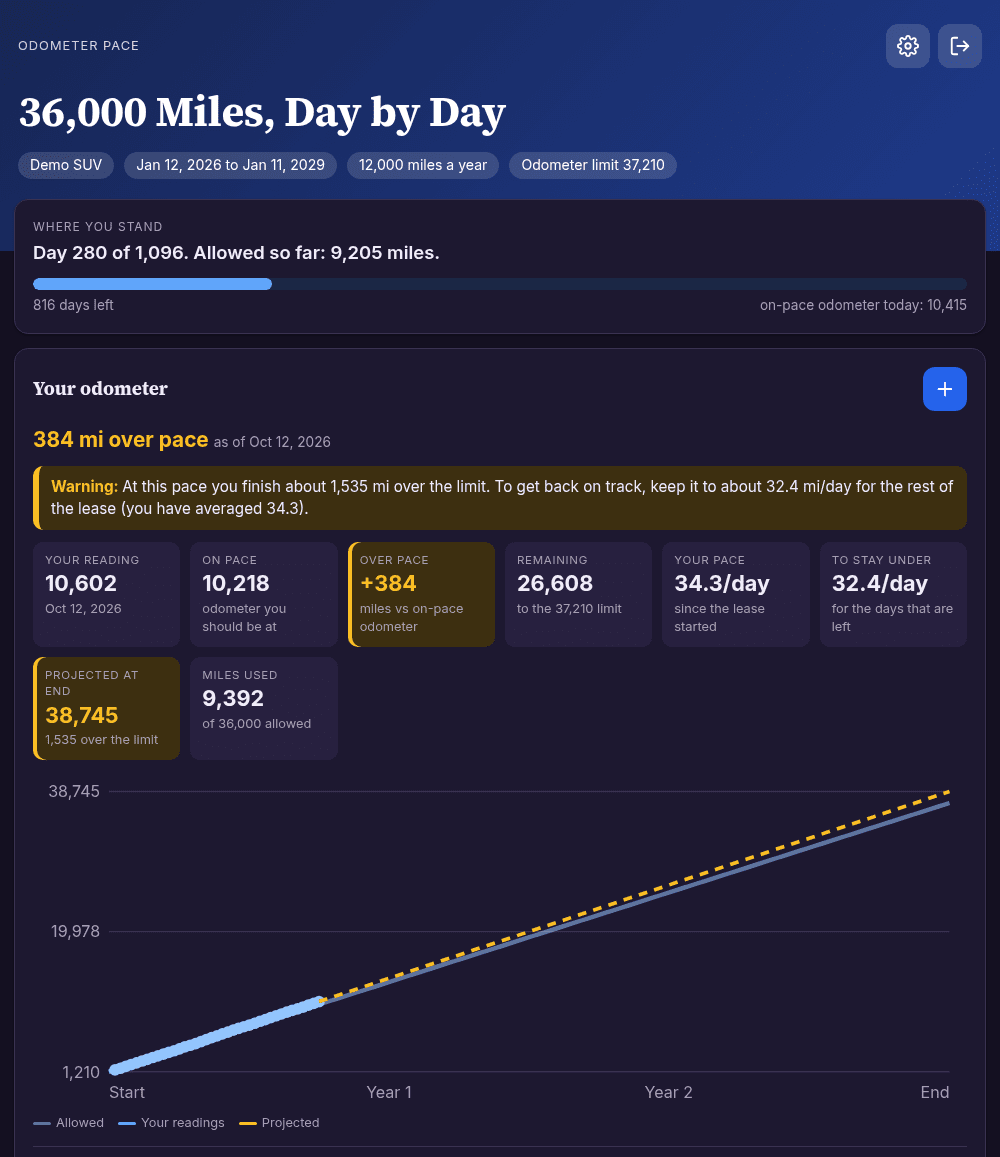
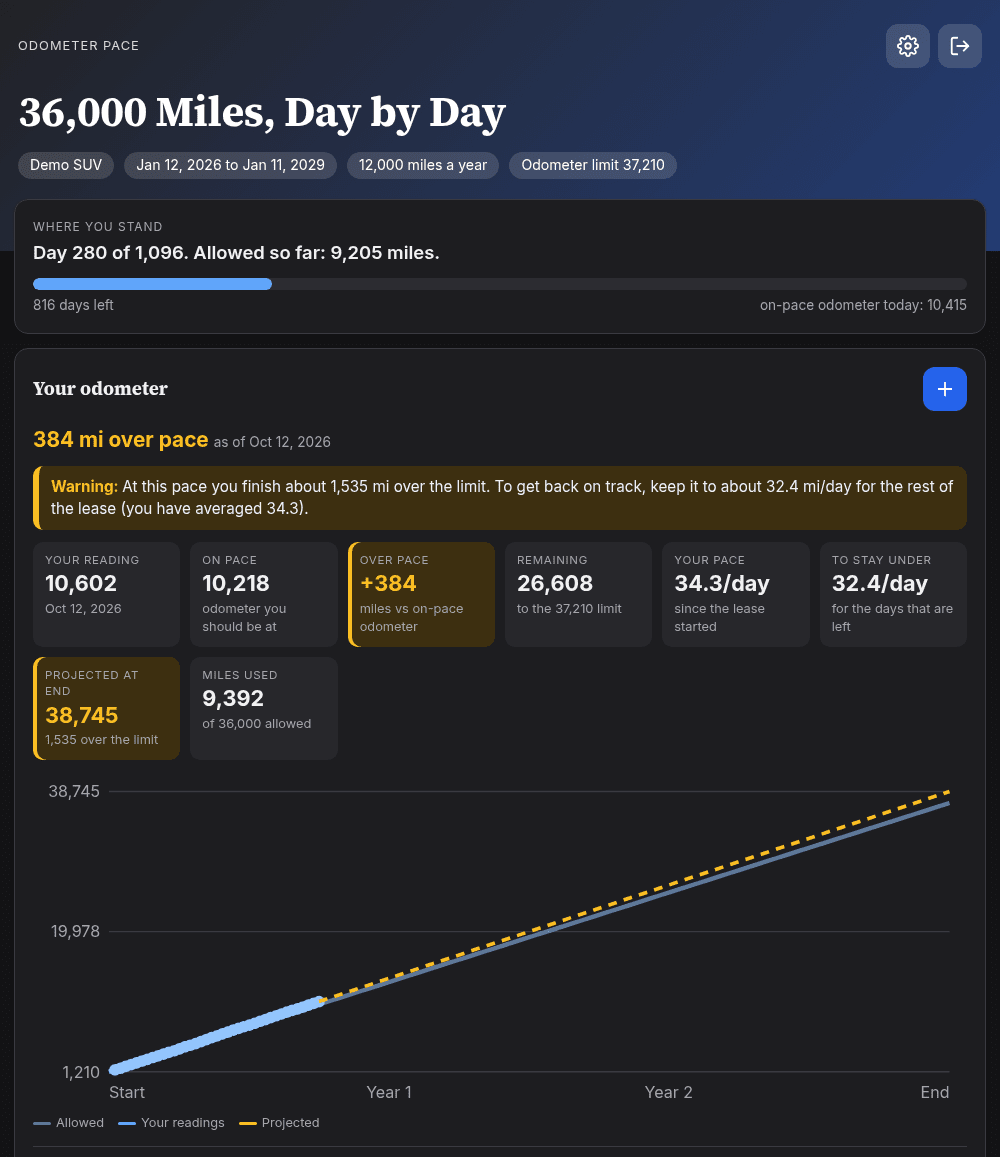
Palette pass: projected line and legend follow over/under, reading dots use the accent; retake README screenshots on gray

Changed region(s): [[0.0, 0.0, 1.0, 0.2178]]

diff --git a/public/app.js b/public/app.js
@@ -604,14 +604,14 @@
       var last = s.readings[s.readings.length - 1];
       svg.appendChild(node('line', {
         x1: x(Lease.dayIndex(plan, last.date) + 1), y1: y(last.odometer), x2: x(plan.dayCount), y2: y(latest.projected_end_odometer),
-        stroke: '#fbbf24', 'stroke-width': 2.5, 'stroke-dasharray': '6 5'
+        stroke: cssVar(latest.projected_vs_limit > 0 ? '--over' : '--under'), 'stroke-width': 2.5, 'stroke-dasharray': '6 5'
       }));
     }
 
     var legend = el('div', { class: 'legend' }, [
       el('span', {}, [el('i', { class: 'allowed' }), 'Allowed']),
       el('span', {}, [el('i', { class: 'readings' }), 'Your readings']),
-      el('span', {}, [el('i', { class: 'projected' }), 'Projected'])
+      el('span', {}, [el('i', { class: 'projected' + (latest && latest.projected_vs_limit > 0 ? ' over' : '') }), 'Projected'])
     ]);
     var box = el('div', { class: 'chart' });
     box.appendChild(svg);
@@ -634,7 +634,7 @@
         if (todayCell) todayCell.scrollIntoView({ behavior: 'smooth', block: 'center' });
       }, 'quiet')
     ]));
-    box.appendChild(el('p', { class: 'note', text: 'Each box shows the day and the total miles you may have driven by the end of that day. Crossed-off days are behind you. An amber dot marks a day with a reading.' }));
+    box.appendChild(el('p', { class: 'note', text: 'Each box shows the day and the total miles you may have driven by the end of that day. Crossed-off days are behind you. A dot marks a day with a reading.' }));
 
     var dayNo = 0;
     for (var y = 0; y < plan.years; y++) {

diff --git a/public/style.css b/public/style.css
@@ -135,7 +135,7 @@ button, input, select { font: inherit; }
 .day.today { background: var(--accent-strong); color: #fff; box-shadow: 0 0 0 2px #fff; z-index: 1; }
 .day.today .m { opacity: 1; }
 .day.reading::before {
-  content: ""; position: absolute; top: 3px; right: 3px; width: 6px; height: 6px; border-radius: 50%; background: #fbbf24;
+  content: ""; position: absolute; top: 3px; right: 3px; width: 6px; height: 6px; border-radius: 50%; background: var(--accent-mid);
 }
 
 .center { max-width: 380px; margin: 18vh auto 0; padding: 0 16px; }
@@ -155,7 +155,8 @@ button, input, select { font: inherit; }
 .wrap.top { margin-top: 24px; }
 .legend i.allowed { background: var(--accent-mid); opacity: .55; }
 .legend i.readings { background: var(--accent); }
-.legend i.projected { background: #fbbf24; }
+.legend i.projected { background: var(--under); }
+.legend i.projected.over { background: var(--over); }
 .btn-link { display: inline-block; text-decoration: none; }
 a { color: var(--accent-mid); }
 pre, code { font-size: .85rem; }
